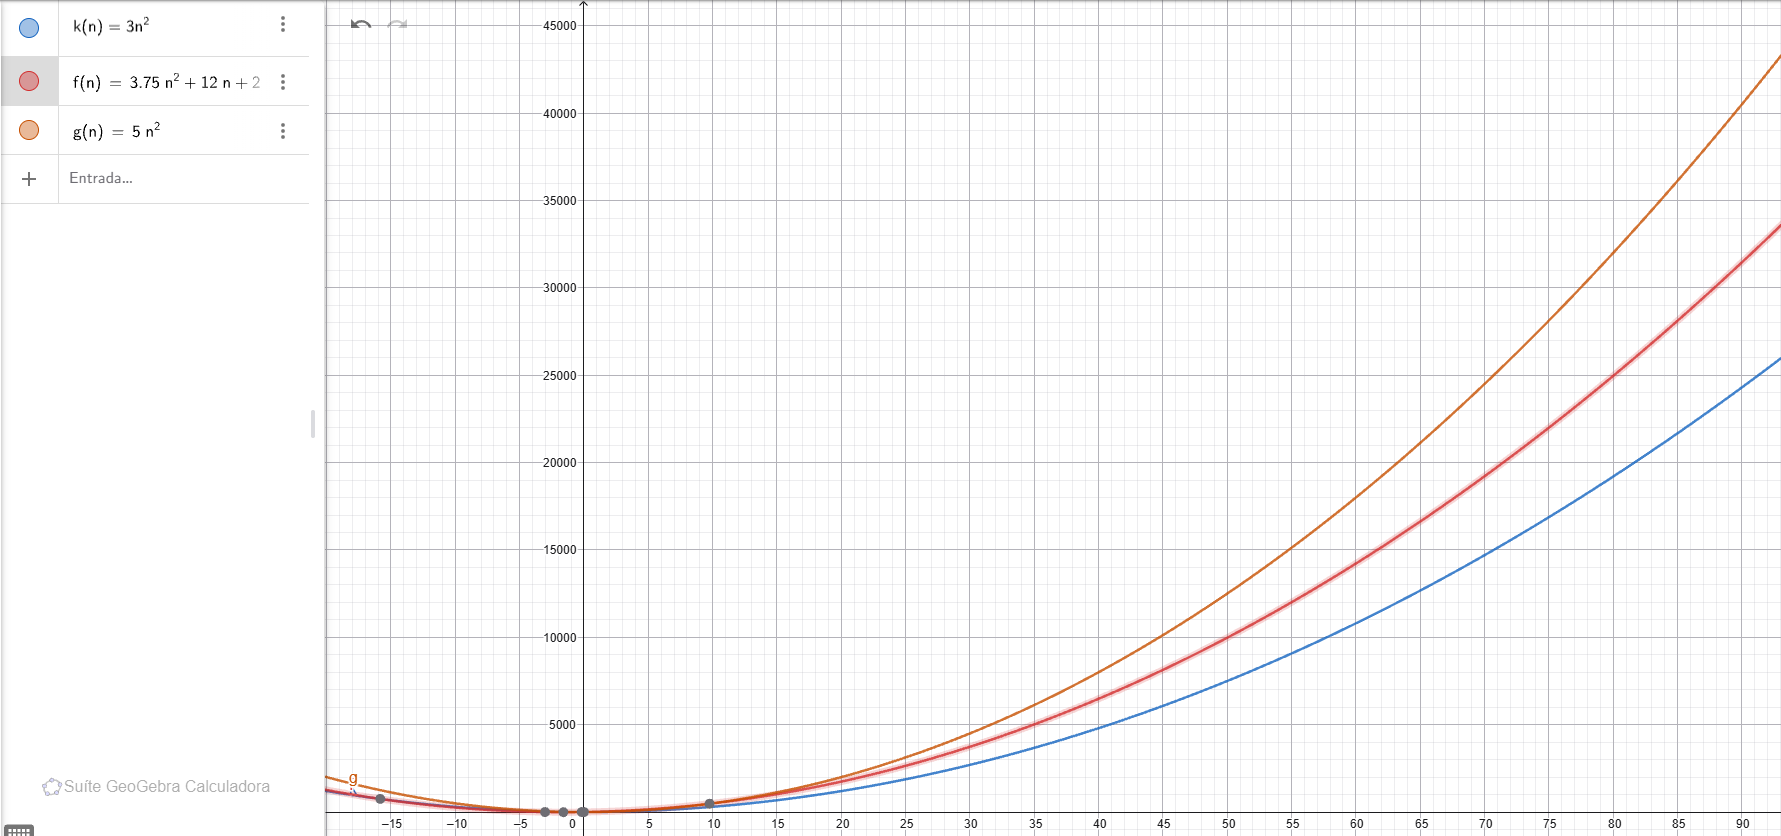
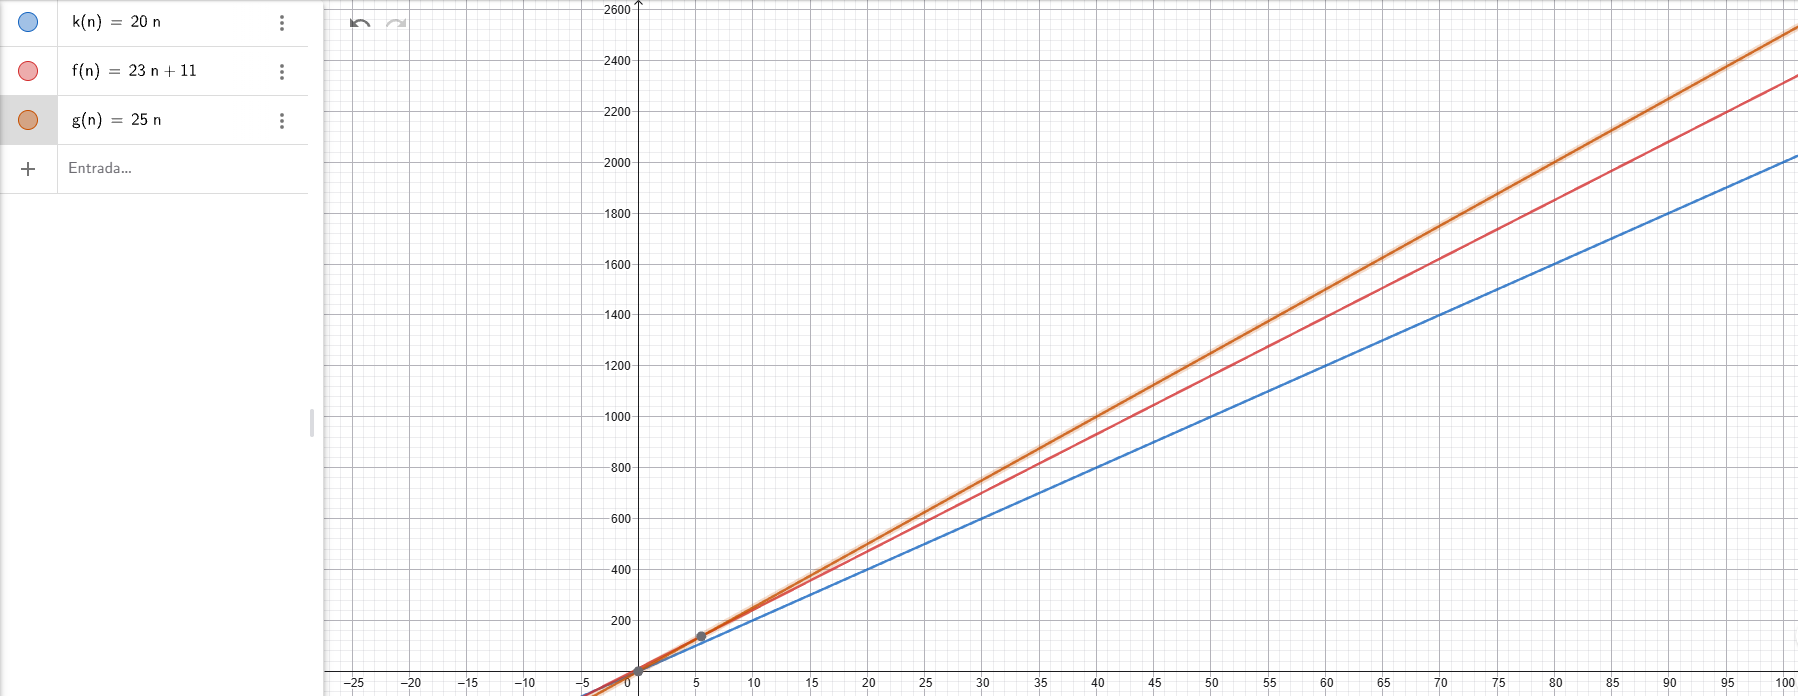
refatorar v4 e v5

diff --git a/src/soma_em_intervalos_v4.py b/src/soma_em_intervalos_v4.py
@@ -1,14 +1,25 @@
 def somas(v, n, ini, fim, q, resp):
+    prefixo = [0] * (n + 1)
+
+    i = 0
+    while i < n:
+        prefixo[i + 1] = prefixo[i] + v[i]
+        i += 1
+
+    somas_ate_fim = [0] * q
+    somas_antes_inicio = [0] * q
+
     k = 0
     while k < q:
-        s = 0
-        i = ini[k]
-        limite = fim[k]
-        while i + 1 <= limite:
-            s = s + v[i] + v[i + 1]
-            i += 2
-        if i <= limite:
-            s = s + v[i]
+        somas_ate_fim[k] = prefixo[fim[k] + 1]
+        k += 1
 
-        resp[k] = s
+    k = 0
+    while k < q:
+        somas_antes_inicio[k] = prefixo[ini[k]]
+        k += 1
+
+    k = 0
+    while k < q:
+        resp[k] = somas_ate_fim[k] - somas_antes_inicio[k]
         k += 1

diff --git a/src/soma_em_intervalos_v5.py b/src/soma_em_intervalos_v5.py
@@ -1,15 +1,19 @@
 def somas(v, n, ini, fim, q, resp):
+    prefixo = [0] * (n + 1)
+
+    i = 0
+    while i < n:
+        prefixo[i + 1] = prefixo[i] + v[i]
+        i += 1
+
+    somas_ate_fim = [0] * q
+    k = 0
+
+    while k < q:
+        somas_ate_fim[k] = prefixo[fim[k] + 1]
+        k += 1
+
     k = 0
     while k < q:
-        s = 0
-        i = ini[k]
-        limite = fim[k]
-        while i + 3 <= limite:
-            s = s + v[i] + v[i + 1] + v[i + 2] + v[i + 3]
-            i += 4
-        while i <= limite:
-            s = s + v[i]
-            i += 1
-
-        resp[k] = s
+        resp[k] = somas_ate_fim[k] - prefixo[ini[k]]
         k += 1

diff --git a/src/modulo_testes.py b/src/modulo_testes.py
@@ -12,7 +12,7 @@ import statistics
 import time
 from pathlib import Path
 
-CENARIOS = (1_000, 2_000, 5_000, 10_433, 20_000, 30_000, 50_000, 100_000)
+CENARIOS = (1_000, 2_000, 5_000, 10_433, 20_000, 30_000, 50_000, 100_000_00)
 REPETICOES = 5
 SEMENTE = 42
 DIRETORIO = Path(__file__).resolve().parent

diff --git a/docs/tabelas/tabela_v5.md b/docs/tabelas/tabela_v5.md
@@ -1,10 +1,10 @@
-|       n |             3n² | 3,75n² + 12n + 2 |             5n² |
-| ------: | --------------: | ----------------: | --------------: |
-|   1.000 |      3.000.000 |        3.762.002 |      5.000.000 |
-|   2.000 |     12.000.000 |       15.024.002 |     20.000.000 |
-|   5.000 |     75.000.000 |       93.810.002 |    125.000.000 |
-|  10.000 |    300.000.000 |      375.120.002 |    500.000.000 |
-|  20.000 |  1.200.000.000 |    1.500.240.002 |  2.000.000.000 |
-|  30.000 |  2.700.000.000 |    3.375.360.002 |  4.500.000.000 |
-|  50.000 |  7.500.000.000 |    9.375.600.002 | 12.500.000.000 |
-| 100.000 | 30.000.000.000 |   37.501.200.002 | 50.000.000.000 |
+|       n |        20n |    23n + 11 |        25n |
+| ------: | ---------: | ----------: | ---------: |
+|   1.000 |     20.000 |      23.011 |     25.000 |
+|   2.000 |     40.000 |      46.011 |     50.000 |
+|   5.000 |    100.000 |     115.011 |    125.000 |
+|  10.000 |    200.000 |     230.011 |    250.000 |
+|  20.000 |    400.000 |     460.011 |    500.000 |
+|  30.000 |    600.000 |     690.011 |    750.000 |
+|  50.000 |  1.000.000 |   1.150.011 |  1.250.000 |
+| 100.000 |  2.000.000 |   2.300.011 |  2.500.000 |

diff --git a/README.md b/README.md
@@ -47,8 +47,8 @@ Tabela Padrão
 | 1 | 1.000 |
 | 2 | 2.000 |
 | 3 | 5.000 |
-| 4 | 10.000 |
+| 4 | 10.433 |
 | 5 | 20.000 |
 | 6 | 30.000 |
 | 7 | 50.000 |
-| 8 | 100.000 |
+| 8 | 10.000.000 |
